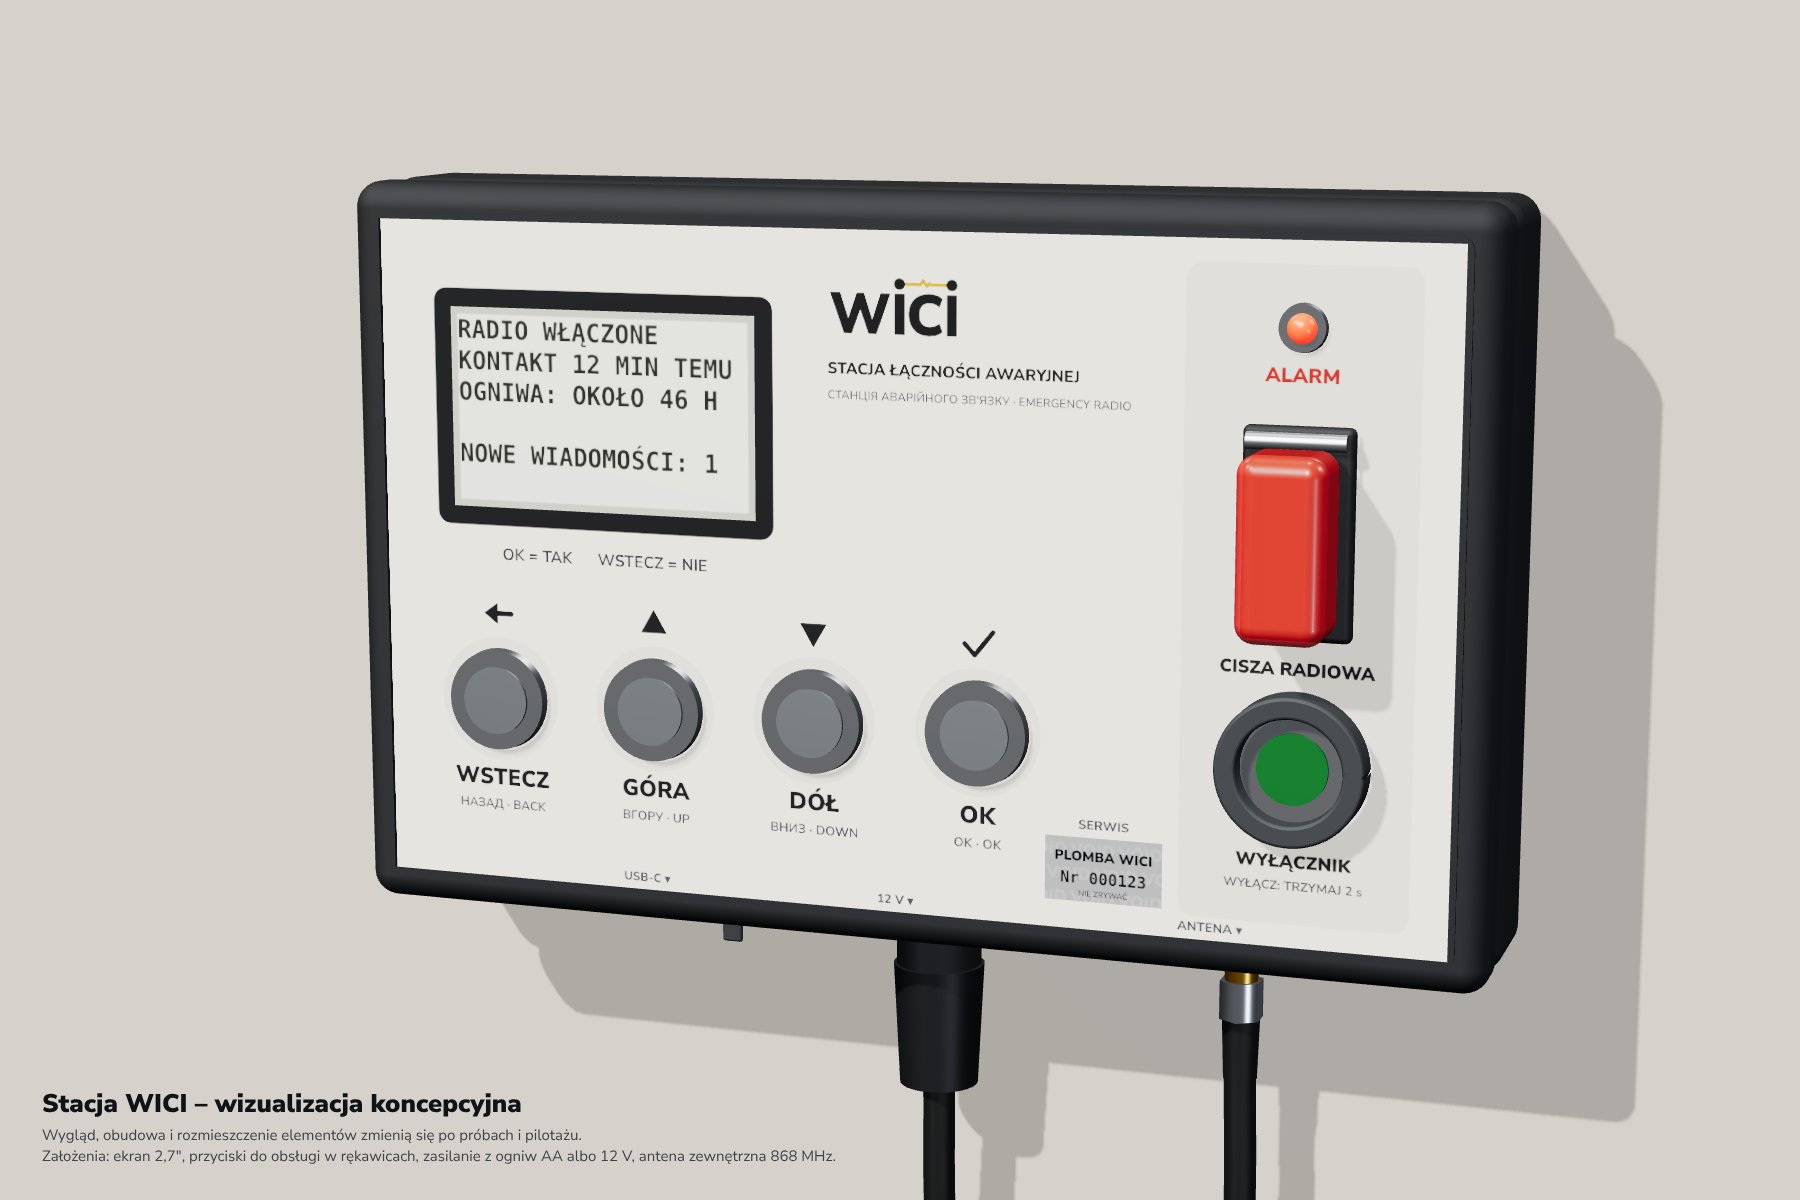
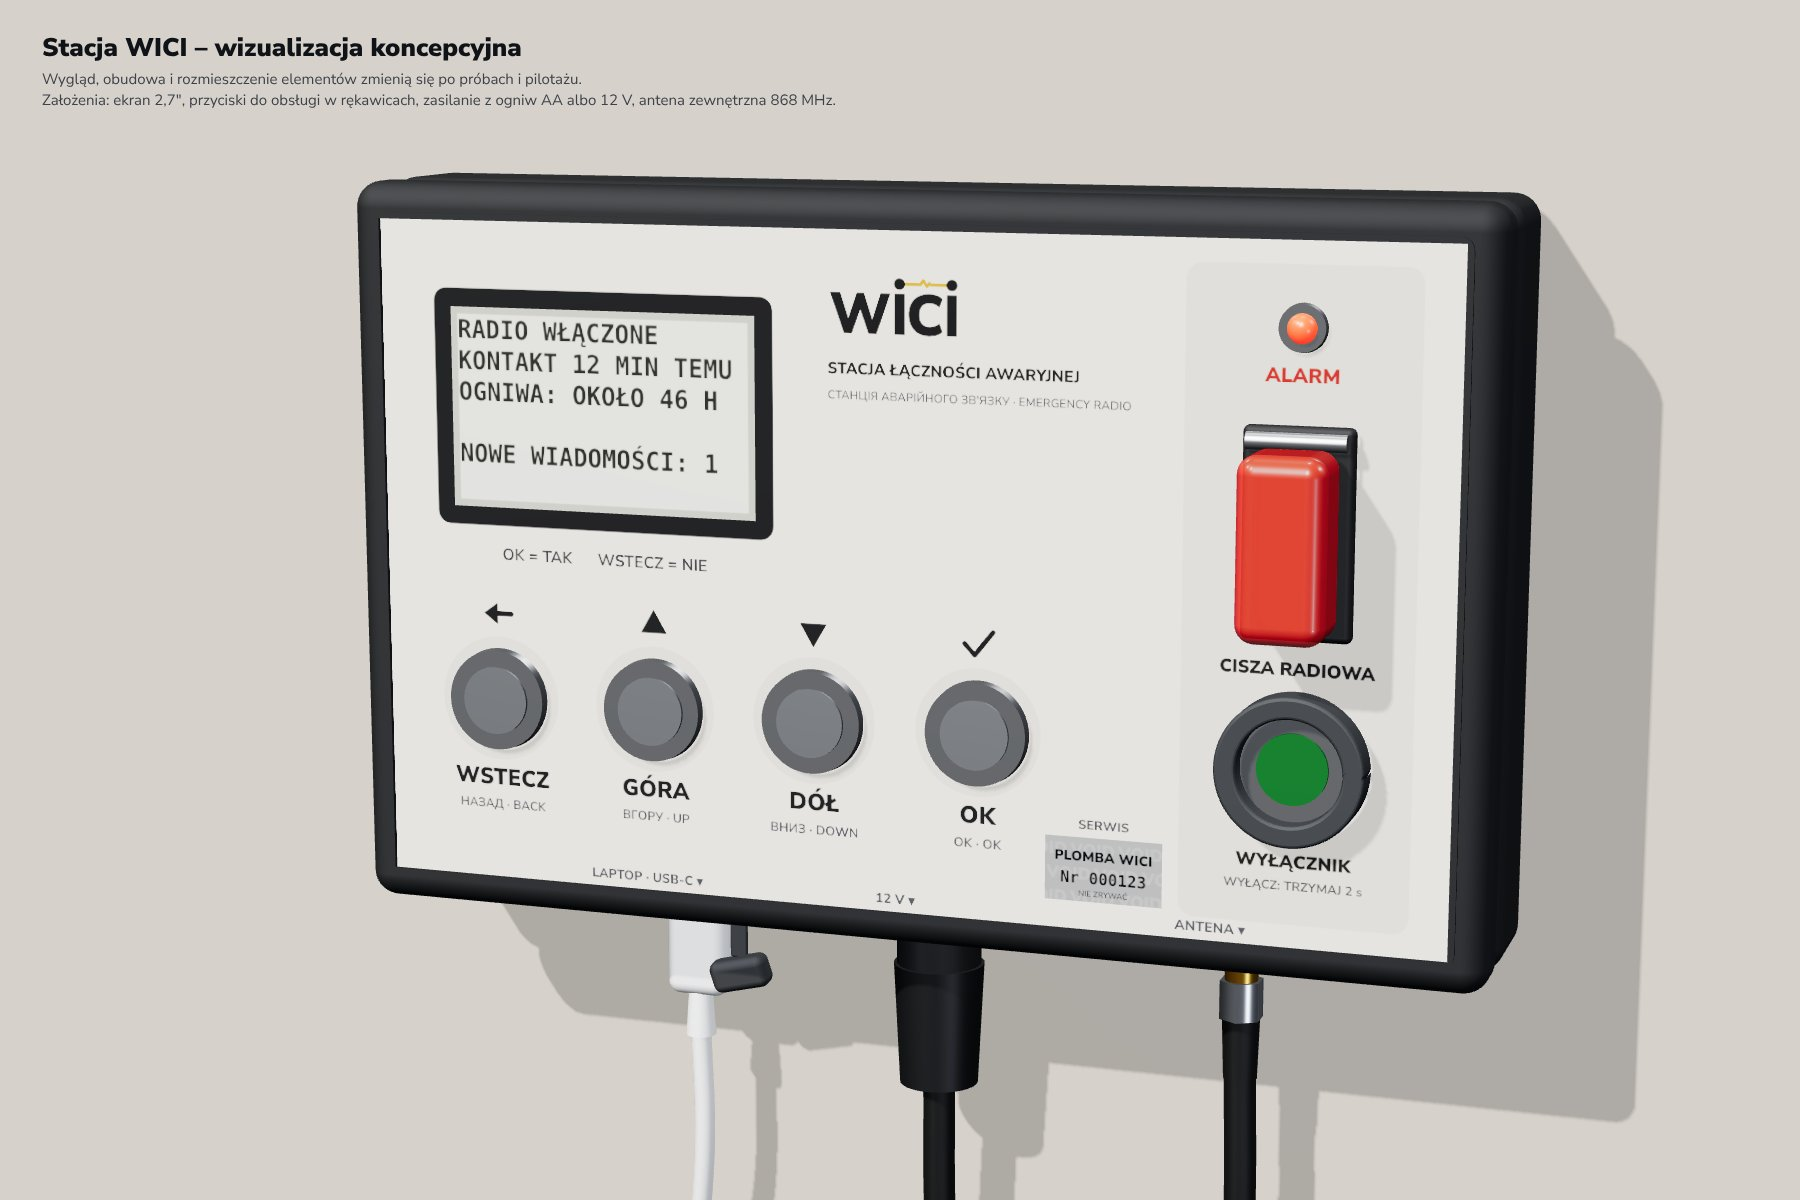
Render: laptop USB-C cable plugged in, connector labels readable
The USB-C port gets a plugged laptop cable with the tethered cap hanging aside;
the foil label reads "LAPTOP · USB-C". The materials caption moves to the top
so the cable does not run through it.

Claude-Session: https://claude.ai/code/session_01C14MPViLTkhq6RZ5PR56Cy

diff --git a/hardware/obudowa/render/stacja.html b/hardware/obudowa/render/stacja.html
@@ -14,7 +14,7 @@ html, body { margin: 0; background: #d9d4cb; overflow: hidden; font-family: "Nun
 #caption span { display: block; font-size: 18px; margin-top: 6px; color: #3d4148; max-width: 1500px; }
 #caption.side { top: auto; bottom: 32px; left: 1150px; }
 #caption.side span { max-width: 600px; }
-#caption.material { top: auto; bottom: 44px; left: 56px; }
+#caption.material { top: 40px; left: 56px; }
 #caption.material b { font-size: 34px; }
 #caption.material span { font-size: 20px; max-width: 1100px; line-height: 1.4; white-space: pre-line; }
 </style>
@@ -181,7 +181,7 @@ for (const b of U.panel) {
 }
 // connector hints on the bottom edge
 for (const c of U.connectors) {
-  text(`${c.id} ▾`, c.x, H - foy - 1.6, 2.4, 800, "#4a4f57");
+  text(`${c.label} ▾`, c.x, H - foy - 1.6, 2.6, 800, "#4a4f57");
 }
 const foilTex = new THREE.CanvasTexture(foil);
 foilTex.colorSpace = THREE.SRGBColorSpace;
@@ -258,9 +258,14 @@ function cable(points, r, material) {
 }
 for (const c of U.connectors) {
   const x = px(c.x);
-  if (c.id === "USB-C") {
-    add(new RoundedBoxGeometry(13, 5, 6.5, 4, 1.8), RUBBER, x, BOTTOM - 2.3, CZ);
-    add(new RoundedBoxGeometry(4, 9, 1.2, 2, 0.5), RUBBER, x + 8, BOTTOM - 4.5, CZ + 2.5);
+  if (c.id === "USB-C") {   // laptop podłączony: wtyk z przewodem, zatyczka zwisa na uwięzi
+    const PLUG = mat("#d4d7db", { roughness: 0.45 });
+    add(new RoundedBoxGeometry(11.5, 1.2, 5.5, 3, 1.2), STEEL, x, BOTTOM - 0.5, CZ);
+    add(new RoundedBoxGeometry(12.5, 20, 7, 4, 2.6), PLUG, x, BOTTOM - 11, CZ);
+    add(new THREE.CylinderGeometry(2.4, 3.0, 9, 32), PLUG, x, BOTTOM - 25, CZ);
+    cable([[x, BOTTOM - 29, CZ], [x, BOTTOM - 55, CZ - 1], [x - 12, BOTTOM - 140, CZ - 8], [x - 30, BOTTOM - 400, -D / 2 + 3]], 2.0, PLUG);
+    add(new RoundedBoxGeometry(3.5, 12, 1.0, 2, 0.4), RUBBER, x + 9.5, BOTTOM - 6, CZ + 3);
+    add(new RoundedBoxGeometry(12, 6.5, 5, 4, 1.8), RUBBER, x + 10, BOTTOM - 15, CZ + 3.5, [0.15, 0, 0.25]);
   }
   if (c.id === "12 V") {
     add(new THREE.CylinderGeometry(10, 10, 3, 6), STEEL, x, BOTTOM - 1.5, CZ);

diff --git a/hardware/obudowa/zalozenia.py b/hardware/obudowa/zalozenia.py
@@ -56,9 +56,9 @@ PANEL = [
 ]
 # Bottom wall, x from the left outer edge. Axis height above the board is a measurement.
 CONNECTORS = [
-    {"id": "USB-C", "x": 60.0, "part": "USB-C z zatyczką na uwięzi"},
-    {"id": "12 V", "x": 110.0, "part": "Switchcraft EN3, 2 styki, otwór 15,5 mm"},
-    {"id": "ANTENA", "x": 170.0, "part": "SMA-F przepustowe z nakrętką na ściance"},
+    {"id": "USB-C", "x": 60.0, "label": "LAPTOP · USB-C", "part": "USB-C z zatyczką na uwięzi; połączenie z laptopem"},
+    {"id": "12 V", "x": 110.0, "label": "12 V", "part": "Switchcraft EN3, 2 styki, otwór 15,5 mm"},
+    {"id": "ANTENA", "x": 170.0, "label": "ANTENA", "part": "SMA-F przepustowe z nakrętką na ściance"},
 ]
 # Rules stated in obudowa.md; tests check the layout against them.
 RULES = {
